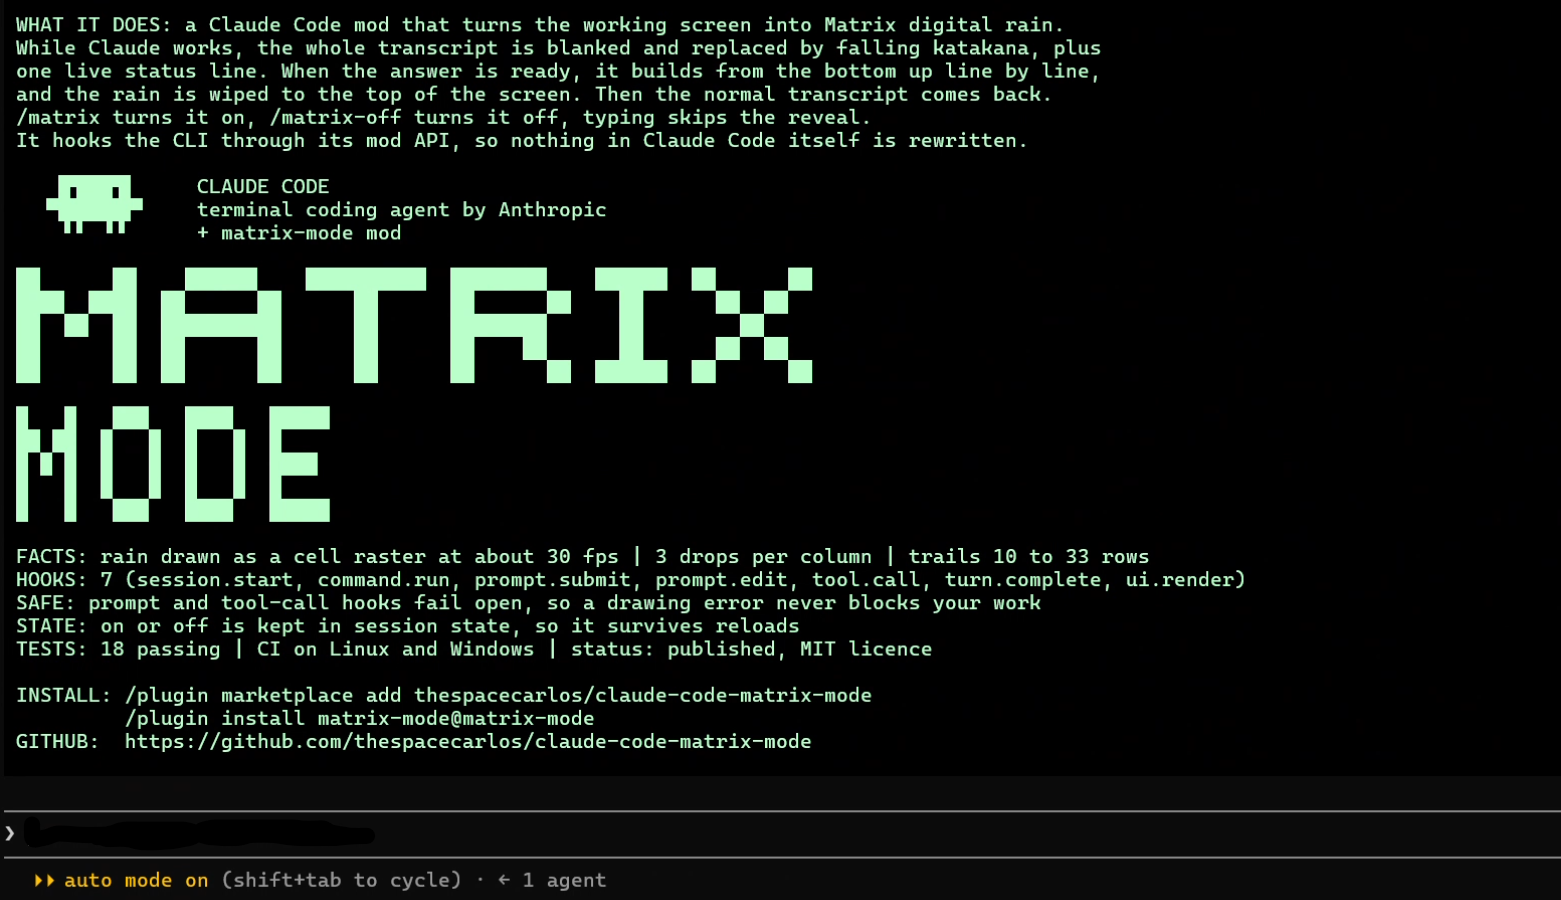
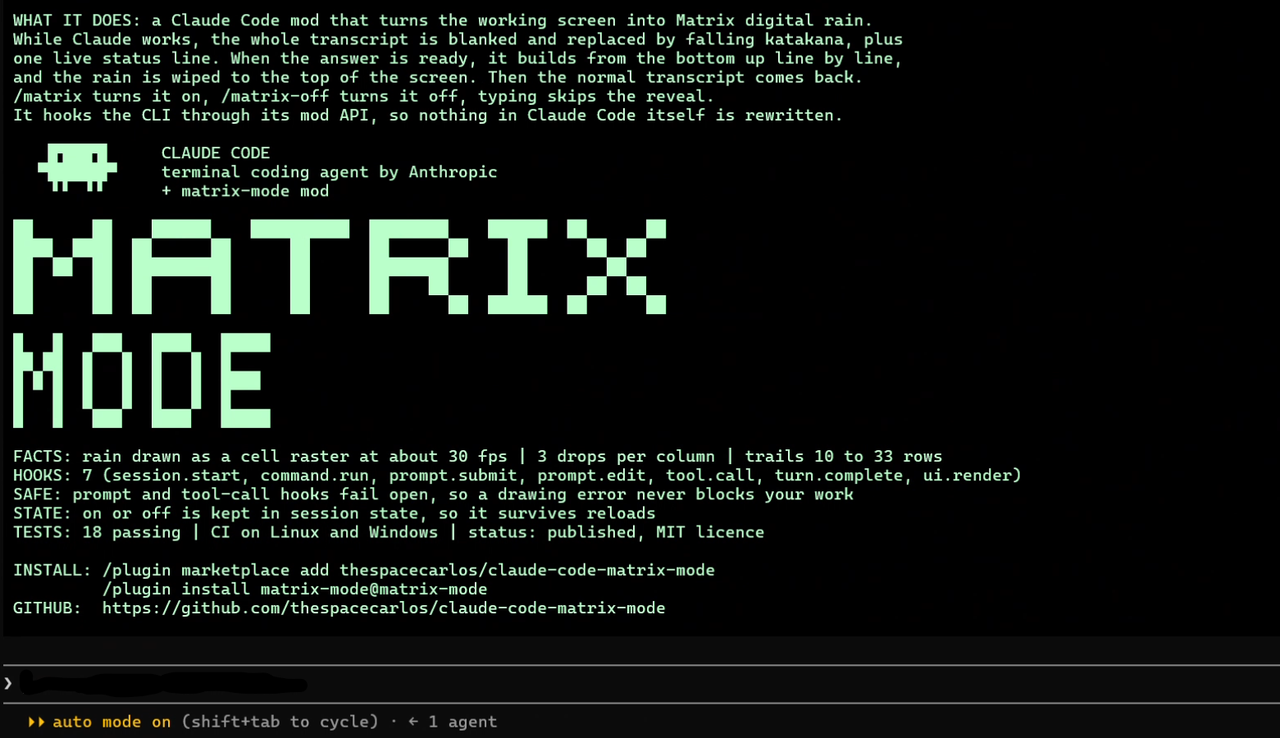
Release 0.4.4: resize README screenshots

diff --git a/CHANGELOG.md b/CHANGELOG.md
@@ -1,5 +1,8 @@
 # Changelog
 
+## 0.4.4 - 2026-10-19
+- README screenshots resized to 1280 px wide (4.6 MB to 2.2 MB in total).
+
 ## 0.4.3 - 2026-10-19
 - README: three screenshots (rain, reveal in progress, finished answer) replace the animated demo, which the Anthropic Directory scan flagged.
 - `plugin.json`: added `supportUrl`, `documentationUrl` and `privacyPolicyUrl` for the Directory listing.
